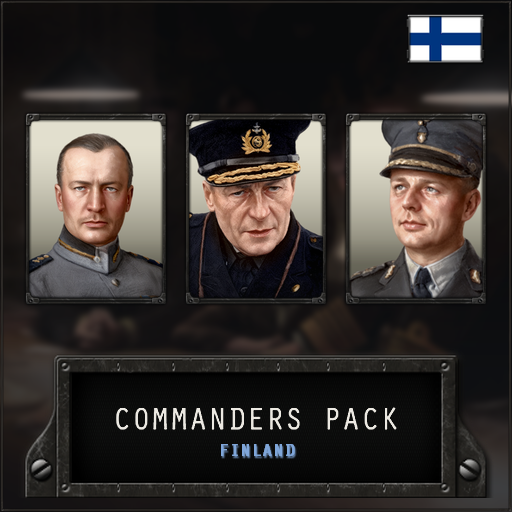
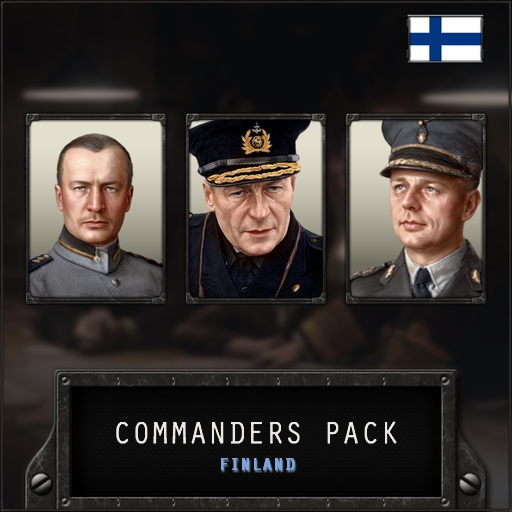
feat(thumbnail): the bundle uses a colourised photograph, the plate touches the bottom edge
The Immersive Commanders Expanded thumbnail takes the colourised photograph
of Finnish officers planning artillery fire (assets/thumbnail.json, packs.all
background) and every pack thumbnail has its title plate at the bottom edge.
The wiki Home page gains a Picture credits table, and the hero images of
the bundle and the three packs are the new ones drawn from the thumbnails.

Checks: .\build.ps1 -ValidateOnly succeeded (bundle all: 3 members, 0
errors); .\build.ps1 -Test, 384 Passed, 0 Failed.

Changed region(s): [[0.0312, 0.6875, 0.9688, 1.0], [0.0938, 0.8125, 0.125, 0.8438], [0.0312, 0.9688, 0.0625, 1.0]]

diff --git a/wiki/Home.md b/wiki/Home.md
@@ -18,3 +18,12 @@ Historical generals, field marshals and admirals for Hearts of Iron IV that the 
 
 ## Developers
 - [Contributing](Contributing)
+
+## Picture credits
+
+The thumbnail and the gallery images use period photographs, colourised, then cropped and resized. Each picture links to its source record.
+
+| Picture | Shows | Used for | Credit and licence |
+|---|---|---|---|
+| [JR 16:n komentopaikka. Tykistötukea suunnitellaan karttapöydän ääre...](https://www.finna.fi/Record/sa-kuva.sa-kuva%2F87891) | Finnish officers planning artillery fire over a map on a table in a forest | thumbnail of Immersive Commanders Expanded | SA-kuva-arkisto (M. J. Vuorela), CC BY 4.0 |
+| [The Operations Room at RAF Fighter Command's No. 10 Group Headquart...](https://commons.wikimedia.org/wiki/File:The_Operations_Room_at_RAF_Fighter_Command%27s_No._10_Group_Headquarters,_Rudloe_Manor_(RAF_Box),_Wiltshire,_showing_WAAF_plotters_and_duty_officers_at_work,_1943._CH11887.jpg) | women of the Women's Auxiliary Air Force around the plotting table of an RAF operations room | cover of Immersive Commanders Expanded | Royal Air Force official photographer (F/O A. Goodchild), public domain |

diff --git a/packs/france/WORKSHOP_DESCRIPTION_GUIDELINES.md b/packs/france/WORKSHOP_DESCRIPTION_GUIDELINES.md
@@ -4,7 +4,7 @@ Generated by `build.ps1 -Generate` from `source/france/workshop-intro.bbcode`, `
 
 ```bbcode
 <!-- region:image:hero -->
-[img]https://i.imgur.com/QOhOkNR.png[/img]
+[img]https://i.imgur.com/e235C2X.png[/img]
 <!-- /region -->
 Historical generals and admirals for France that the base game leaves out, each with a portrait made from a historical photograph. The first release adds three generals and one admiral who sided with the Allies in 1942-43; a fourth general follows later.
 

diff --git a/packs/all/WORKSHOP_DESCRIPTION_GUIDELINES.md b/packs/all/WORKSHOP_DESCRIPTION_GUIDELINES.md
@@ -4,7 +4,7 @@ Generated by `build.ps1 -Generate` from `source/all/workshop-intro.bbcode` and t
 
 ```bbcode
 <!-- region:image:hero -->
-[img]https://i.imgur.com/T06b9P5.png[/img]
+[img]https://i.imgur.com/iEBrpaQ.png[/img]
 <!-- /region -->
 Historical generals and admirals for Finland, France and Poland that the base game leaves out, in one item: every Commanders Pack of the series, each leader with a portrait made from a historical photograph.
 <!-- region:image:strip-info -->

diff --git a/packs/finland/WORKSHOP_DESCRIPTION_GUIDELINES.md b/packs/finland/WORKSHOP_DESCRIPTION_GUIDELINES.md
@@ -4,7 +4,7 @@ Generated by `build.ps1 -Generate` from `source/finland/workshop-intro.bbcode`, 
 
 ```bbcode
 <!-- region:image:hero -->
-[img]https://i.imgur.com/GSXxqNv.png[/img]
+[img]https://i.imgur.com/ubxHOR7.png[/img]
 <!-- /region -->
 Historical generals and admirals for Finland that the base game leaves out, each with a portrait made from a historical photograph.
 

diff --git a/packs/poland/WORKSHOP_DESCRIPTION_GUIDELINES.md b/packs/poland/WORKSHOP_DESCRIPTION_GUIDELINES.md
@@ -4,7 +4,7 @@ Generated by `build.ps1 -Generate` from `source/poland/workshop-intro.bbcode`, `
 
 ```bbcode
 <!-- region:image:hero -->
-[img]https://i.imgur.com/BgRlAA4.png[/img]
+[img]https://i.imgur.com/3m6tUxO.png[/img]
 <!-- /region -->
 Historical generals for Poland that the base game leaves out, each with a portrait made from a historical photograph.
 
